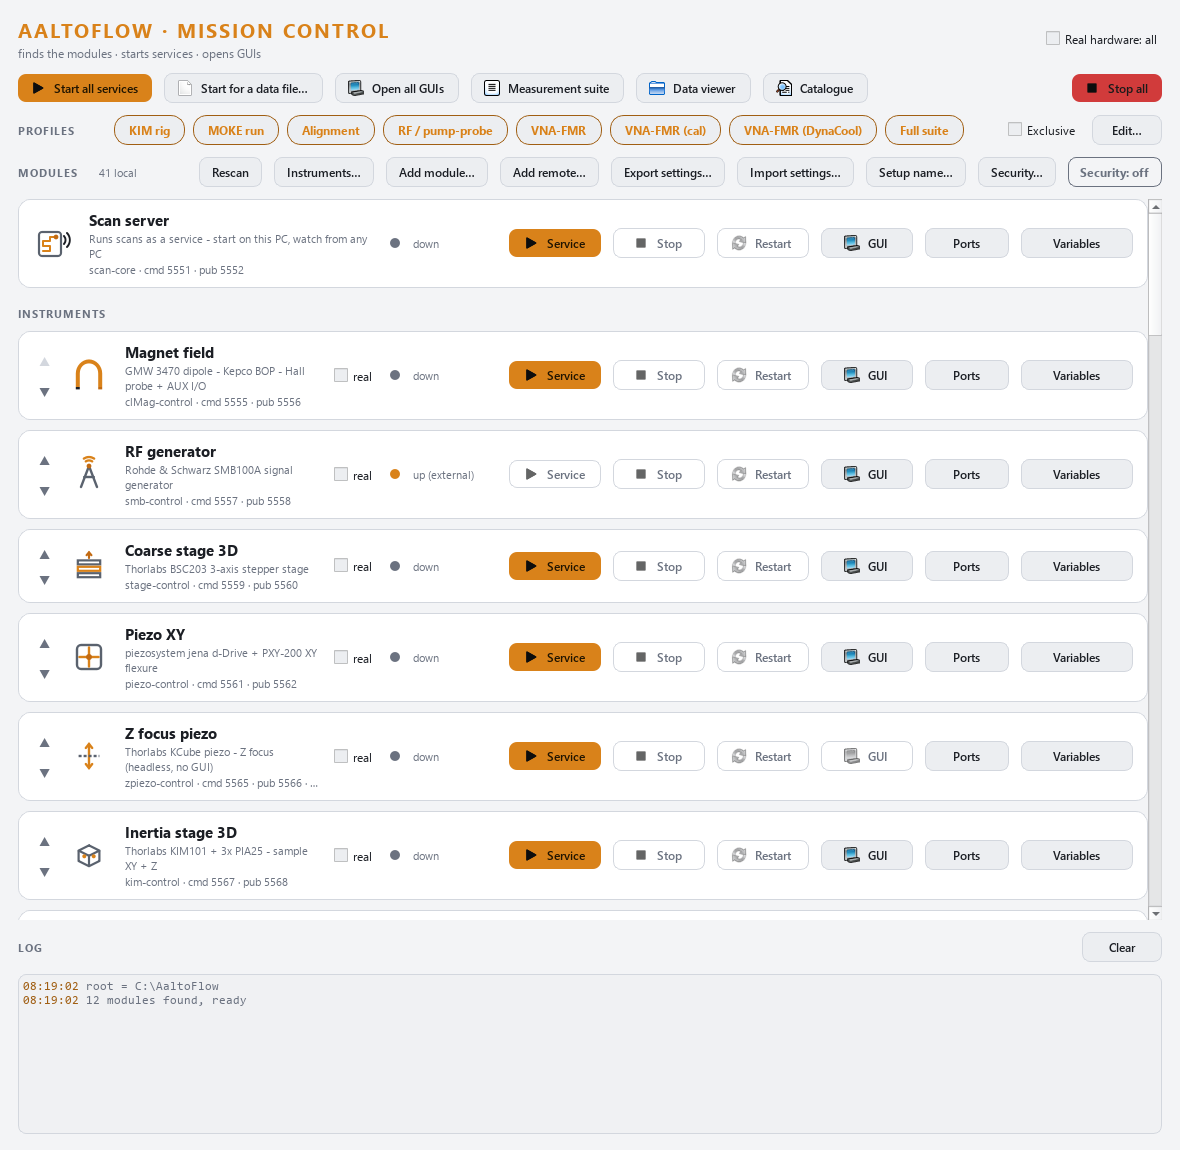
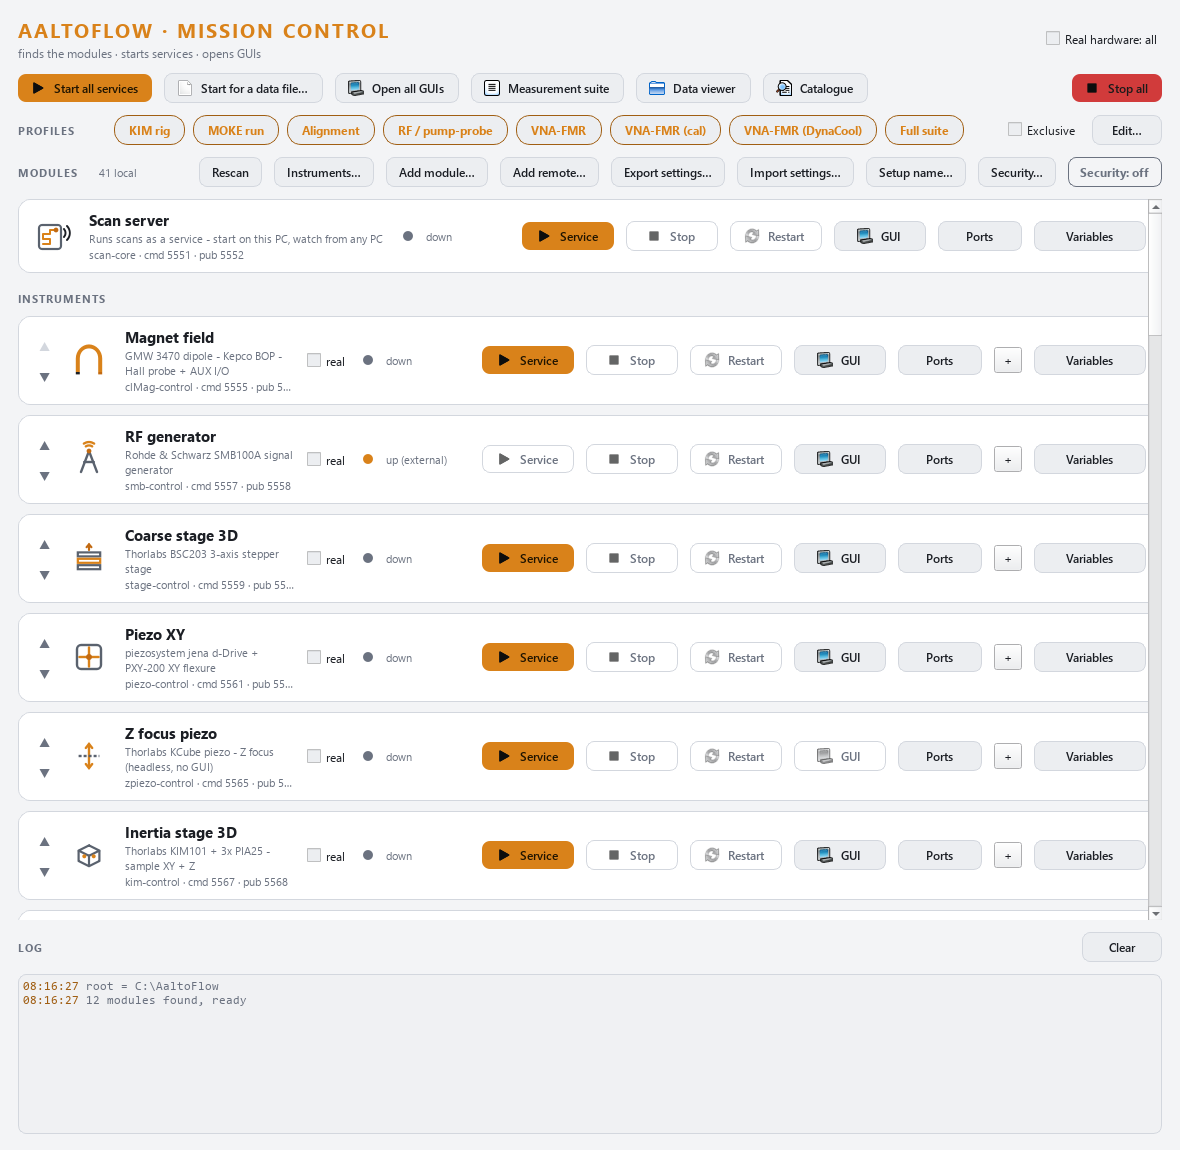
docs + tests: module instances (developer notes 4g, launcher README, scope README)
scan-core: a registry built from follow-the-launcher endpoints with a module
and its instance registers fake.* and fake_b.*, each reaching its own service,
both used in one scan. suite-common: free_ports_after. Mission Control panel
re-rendered in both themes (the + Add instance button on each card).

diff --git a/scan-core/tests/test_instances.py b/scan-core/tests/test_instances.py
@@ -1,0 +1,87 @@
+"""Two copies of ONE module (a module INSTANCE, 2026-10-11) in one registry.
+
+Mission Control can run a module twice on one PC -- the scope for the Siglent
+and, as instance "dwf", for an Analog Discovery 2. Discovery gives the copy
+its own slug ("scope_dwf"), and the scan engine must register both under
+their own prefixes (gotcha #20) so one scan can use both.
+
+Here: a throwaway suite root with one module "fake" plus its instance "b",
+each answered by a fake service on scratch ports.
+"""
+
+from __future__ import annotations
+
+import numpy as np
+import pytest
+
+pytest.importorskip("zmq")
+from conftest import DEMO_MANIFEST, FakeService      # noqa: E402
+
+from scan_core import api                            # noqa: E402
+from scan_core.lab import build_lab_registry, known_ports      # noqa: E402
+from suite_common import modules as M                # noqa: E402
+
+PORT_A, PORT_B = 17950, 17952
+
+
+@pytest.fixture
+def suite(tmp_path):
+    d = tmp_path / "suite" / "modules" / "other" / "fake-control"
+    (d / "scripts").mkdir(parents=True)
+    (d / "scripts" / "run_service.py").write_text("")
+    (d / "module.toml").write_text(
+        f'[module]\nkey = "fake"\nname = "Fake"\n[ports]\ncmd = {PORT_A}\n'
+        f'[run]\nservice = "scripts/run_service.py"\n', encoding="utf-8")
+    root = tmp_path / "suite"
+    M.add_instance("fake", "b", PORT_B, args=["--driver", "dwf"], root=root)
+    a = FakeService(PORT_A, adopt_delay=0.02, settle_delay=0.02,
+                    manifest=DEMO_MANIFEST).start()
+    b = FakeService(PORT_B, adopt_delay=0.02, settle_delay=0.02,
+                    manifest=DEMO_MANIFEST).start()
+    yield root, a, b
+    a.stop()
+    b.stop()
+
+
+def test_follow_the_launcher_finds_both_copies_by_slug(suite):
+    root, a, b = suite
+    eps = api._discover_endpoints(None, None, root, lambda *_: None)
+    assert eps == {"fake": ("localhost", PORT_A, PORT_A + 1),
+                   "fake_b": ("localhost", PORT_B, PORT_B + 1)}
+    # the module's own port table is NOT overwritten by its instance
+    assert known_ports(root)["fake"] == (PORT_A, PORT_A + 1)
+    # by name too: the id, the slug, or the key (= the module itself)
+    assert set(api._discover_endpoints(None, ["fake#b"], root, print)) == {"fake_b"}
+    assert set(api._discover_endpoints(None, ["fake_b", "fake"], root, print)) == \
+        {"fake", "fake_b"}
+
+
+def test_two_copies_of_one_module_get_two_prefixes_and_work_in_one_scan(suite, tmp_path):
+    root, a, b = suite
+    eps = api._discover_endpoints(None, None, root, lambda *_: None)
+    reg, lab = build_lab_registry(include=tuple(eps), endpoints=eps, prefix=True)
+    try:
+        ids = {p.id for p in reg.settables()}
+        assert {"fake.field", "fake_b.field"} <= ids
+        gets = {g.id for g in reg.gettables()}
+        assert {"fake.measured_field", "fake_b.measured_field"} <= gets
+        # each copy's parameters reach ITS service, nobody else's
+        reg.get("fake_b.field").set(12.5)
+        reg.get("fake.field").set(-3.0)
+        assert b._setpoint == 12.5 and a._setpoint == -3.0
+        assert reg.owner["fake_b.field"] == "fake_b" and reg.owner["fake.field"] == "fake"
+    finally:
+        lab.close()
+
+    # and both in ONE scan, through the scripting API
+    with api.connect(root=root, data_dir=tmp_path / "data", log=None) as lab2:
+        ds = lab2.scan({"name": "two copies",
+                        "axes": [{"type": "linear", "param": "fake.field",
+                                  "start": 0, "stop": 10, "num": 2},
+                                 {"type": "linear", "param": "fake_b.field",
+                                  "start": 20, "stop": 30, "num": 2}],
+                        "detectors": ["fake.measured_field", "fake_b.measured_field"]},
+                       save=False)
+        assert ds["fake.measured_field"].shape == (2, 2)
+        assert np.allclose(ds["fake_b.measured_field"].values[:, -1], 30, atol=1.0)
+        assert np.allclose(ds["fake.measured_field"].values[-1, :], 10, atol=1.0)

diff --git a/suite-common/tests/test_instances.py b/suite-common/tests/test_instances.py
@@ -156,6 +156,14 @@ def test_start_order_with_an_instance(root):
     assert order.index("camera") > order.index("kim")
 
 
+def test_free_ports_after_skips_every_local_port_but_not_remote_ones(root):
+    mods = M.discover(root).modules
+    assert M.free_ports_after(mods, 5563) == (5567 + 2, 5567 + 3)   # 5565 zpiezo, 5567 kim
+    M.add_instance("kim", "b", 5569, root=root)
+    M.add_remote("lab2", 5571, 5572, "kim", root=root)            # elsewhere: free here
+    assert M.free_ports_after(M.discover(root).modules, 5567) == (5571, 5572)
+
+
 def test_the_catalog_never_lists_an_instance(root):
     from suite_common.catalog import build_catalog
     M.add_instance("kim", "b", 6100, root=root)

diff --git a/docs/DEVELOPER_NOTES.md b/docs/DEVELOPER_NOTES.md
@@ -84,7 +84,8 @@ checkouts and installs made before the move.
 ## 3. Architecture overview
 
 ```
-suite-common     ── module discovery: <root>/modules/<category>/*/module.toml + suite_local.json (this PC)
+suite-common     ── module discovery: <root>/modules/<category>/*/module.toml + suite_local.json (this PC:
+                    port overrides, real flags, remote services, module instances -- section 4g)
 mission-control  ── discovers modules, spawns run_service.py / run_gui.py (never imports them)
 scan-core suite  ── follows the launcher: connects to the discovered modules that are running
 
@@ -1050,6 +1051,77 @@ buttons; while this PC HOLDS control the lab's Scan-tab definition is no
 longer followed (this PC is the one defining scans). Closing the suite closes
 its connections only.
 
+### 4g. Module instances: two copies of one module on one PC (2026-10-11)
+
+Lukas: run the scope module for the Siglent AND, with `--driver dwf`, for the
+Analog Discovery 2, side by side. A `module.toml` describes ONE service, so the
+extra copies are this PC's choice, kept in `suite_local.json` next to the
+module's other local settings (`suite_common/modules.py`, "module instances"):
+
+```json
+"modules": {"scope": {"real": true,
+                      "instances": [{"name": "dwf", "cmd": 5635, "pub": 5636,
+                                     "args": ["--driver", "dwf"],
+                                     "config": "", "real": true, "address": ""}]}}
+```
+
+- **Discovery** (`discover()`) turns each entry into a ModuleSpec of its own,
+  sorted right after its module: `id` **`scope#dwf`** (key `#` name, in the
+  style of a remote's `key@host:cmd`; `#` cannot occur in a key), `slug`
+  **`scope_dwf`**, `name` "Oscilloscope (dwf)", `instance` "dwf", its own
+  `cmd/pub` (which are also its "defaults": nothing to reset to), its own
+  `real` and `address`, plus `extra_args` and `config`. `dir`, scripts, icon,
+  category and `start_after` are the module's. A bad entry (bad name, no
+  ports, a name used twice, a reserved flag, a module not installed here) is
+  a reported problem, never a crash. **No `instances` key = discovery exactly
+  as before.**
+- **Names:** letters, digits and `_` (the name becomes part of every
+  parameter id, `scope_dwf.ch1`). Slugs are claimed in the order module keys,
+  then instances, then remotes; an instance slug that equals another
+  module's key gets `_<cmd>` appended.
+- **Service command line:** `service_args` = the launcher's own
+  `--cmd-port/--pub-port [--real [<address_arg> <address>]]`, then
+  `--config <file>` if the instance has one (relative = in the module
+  folder; 39 of 40 services take `--config`), then the extra args. The extra
+  args may NOT contain `--cmd-port`, `--pub-port`, `--real`, `--host` or
+  `--config` (`RESERVED_ARGS`): those belong to the launcher. The GUI gets
+  `--connect localhost --cmd-port/--pub-port` of the instance (it pulls its
+  config from the service), and runs its own simulator when the service is
+  down, like any card.
+- **Writing:** `add_instance(key, name, cmd, pub, args, config)`,
+  `remove_instance(id)`; `set_ports` / `set_real` / `set_address` take an
+  instance id as well as a key (`_local_entry`). `free_ports_after(modules,
+  cmd)` is the first free pair above the module's ports (scope 5633 -> 5635).
+  Clashes: `port_conflicts` covers instances like any local module.
+- **Endpoints:** `endpoints_json` lists the module under its key and an
+  instance only under its id (`"scope#dwf"`), like a remote: a module that
+  finds another by TYPE (camera -> kim) must never be handed a copy. Consumers
+  that build `{key: ...}` maps skip instances (`Discovery.by_key`,
+  `lab.known_ports`, the catalog, Add remote's type list, the data-file start
+  plan) -- otherwise the copy, sorted after its module, would overwrite it.
+- **scan-core** needs nothing new: follow-the-launcher (`api._discover_endpoints`,
+  the suite, the scan server) works by slug, `build_lab_registry(endpoints=)`
+  uses the slug as the prefix (gotcha #20), so `scope.*` and `scope_dwf.*`
+  are both registered and usable in one scan. `_check_identity` accepts
+  `scope_dwf` for a service whose describe says `scope` (key + `_`).
+- **One instrument, one service still holds:** nothing in the launcher stops
+  two copies from being pointed at the same instrument; the address lock
+  (hwlock, gotcha #37) does -- the second real backend is refused its address
+  and exits with code 4, and the card says who holds it. The card's "holds"
+  line matches hwlock entries by module KEY, so with two copies running both
+  cards list both addresses.
+- **Mission Control:** the `+` button on a local instrument card (or
+  right-click > Add instance...) opens `AddInstanceDialog`: name, ports
+  (first free pair, refused on a clash), extra arguments (one line, split like
+  a command line), settings file (only if the service script mentions
+  `"--config"`). The instance card has Service / Stop / Restart / GUI / Ports /
+  real / Remove (instance); profiles list it by id; with a custom card order
+  it sits under its module until moved.
+- **Port numbers:** `tools/new_module.py` picks the next free pair from the
+  committed module.toml files only; it does not see this PC's instances. A
+  new module that lands on an instance's ports shows up as a port clash in
+  the launcher -- move the instance (Ports).
+
 ---
 
 ## 5. Shared code conventions
@@ -1203,7 +1275,8 @@ zpiezo has no GUI.
 20. **Two copies of one module need distinct prefixes** (2026-09-15). A remote hf2
     and the local hf2 would both register `hf2.r1` and share the acquire group
     `hf2.sample`. scan-core names each connection by its discovery slug
-    (`hf2_lab2`) via `endpoints=`/`inst.alias`.
+    (`hf2_lab2`) via `endpoints=`/`inst.alias`. The same holds for a second
+    LOCAL copy, a module instance (`scope_dwf`, section 4g).
 21. **Probing a switched-off remote host blocks for the whole timeout**
     (2026-09-15). Both the launcher and the suite probe on background threads.
 22. **One global flag the launcher passes must exist in EVERY script.** clMag's

diff --git a/mission-control/README.md b/mission-control/README.md
@@ -34,6 +34,31 @@ remembered after the service stops, marked "last seen".
   `suite_local.json`) and only changes what you see: services still start in
   the order they need (the camera after kim).
 
+## Two copies of one module (instances)
+
+One module can run more than once on this PC -- e.g. the oscilloscope module
+for the Siglent scope and, at the same time, for an Analog Discovery 2. Press
+**+** on the module's card (or right-click it > *Add instance…*) and give the
+copy:
+
+- a **name** (letters, digits, `_`), e.g. `dwf`. Its parameters in the
+  measurement suite become `scope_dwf.*`, next to the module's own `scope.*`,
+  so both can be used in one scan;
+- its own **ports** (the first free pair above the module's is suggested;
+  clashes are refused);
+- **extra arguments** for its service, e.g. `--driver dwf`;
+- optionally its own **settings file** (passed as `--config`; relative to the
+  module folder), so the two copies do not share one `.ini`.
+
+The copy gets a card of its own, marked `[instance]`, with Service / Stop /
+Restart / GUI / Ports / real and **Remove** (forgets the copy; the module's
+own card stays). It has its own real/sim switch and its own instrument
+address (*Instruments…* offers it separately), can be put in profiles, and its
+GUI connects to its own ports. Two copies cannot open the same instrument: the
+second real service is refused its address ("address busy" on the card).
+Saved in `../suite_local.json` under `modules.<key>.instances` (developer
+notes, section 4g).
+
 ## Security (encryption)
 
 **Security...** (next to *Instruments...*) manages this PC's key, the lab
@@ -54,7 +79,7 @@ card has a GUI button but no Start/Stop, since the service belongs to that PC.
 
 ## Where the choices are saved
 
-Ports, real/sim flags, the card order and remote services go in `../suite_local.json`, which is
+Ports, real/sim flags, the card order, remote services and instances go in `../suite_local.json`, which is
 this PC's file (not in git). The measurement suite in scan-core reads the same
 file, which is how it follows the launcher. Profiles are in `profiles.json`
 next to this script.

diff --git a/modules/detector/scope-control/README.md b/modules/detector/scope-control/README.md
@@ -210,6 +210,12 @@ has 3.24.4), close the WaveForms program (one process per device), and start
 uv run scripts/run_service.py --real --driver dwf --cmd-port 5635 --pub-port 5636
 ```
 
+From Mission Control: press **+** on the Oscilloscope card (*Add instance…*),
+name it `dwf`, keep the suggested ports 5635/5636 and give the extra
+arguments `--driver dwf`. The copy gets its own card (tick `real` there) and
+its parameters appear in the measurement suite as `scope_dwf.*`, next to the
+Siglent's `scope.*` (mission-control README, "Two copies of one module").
+
 The Siglent and the Analog Discovery are TWO services of this module, each
 with its own settings file next to the project: `scope.ini` (siglent, the
 default) and `scope-dwf.ini` + `scope-dwf-generator.ini` (dwf). The driver is
